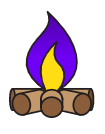
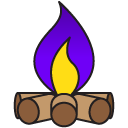
Add burn pool links to producers table

Changed region(s): [[0.0857, 0.0, 0.9143, 1.0]]

diff --git a/modules/koiner/network/block-production/search/attribute/producer-burn-pool-attribute-renderer.vue b/modules/koiner/network/block-production/search/attribute/producer-burn-pool-attribute-renderer.vue
@@ -1,0 +1,97 @@
+<template>
+  <attribute-wrapper
+    v-bind="attributeWrapper"
+    :styles="styles"
+    :applied-options="appliedOptions"
+  >
+    <a
+      v-if="
+        blockProducersMap[rawValue(result.node)] &&
+        !blockProducersMap[rawValue(result.node)].includes('BurnKoin')
+      "
+      :href="`https://fogata.io/pools/${rawValue(result.node)}`"
+      target="_blank"
+      :class="`${styles.attribute.link} address-attribute`"
+    >
+      <img
+        src="/projects/dapp/fogata.png"
+        alt="Fogata Burn Pool"
+        style="max-width: 2.5rem"
+      />
+    </a>
+    <a
+      v-if="
+        blockProducersMap[rawValue(result.node)] &&
+        blockProducersMap[rawValue(result.node)].includes('BurnKoin')
+      "
+      :href="`https://burnkoin.com`"
+      target="_blank"
+      :class="`${styles.attribute.link} address-attribute`"
+    >
+      <img
+        class="dark-logo"
+        src="/projects/dapp/burnkoin-dark.jpg"
+        alt="BurnKoin"
+        style="max-width: 2.5rem"
+      />
+    </a>
+    <a
+      v-if="
+        blockProducersMap[rawValue(result.node)] &&
+        blockProducersMap[rawValue(result.node)].includes('BurnKoin')
+      "
+      :href="`https://burnkoin.com`"
+      target="_blank"
+      :class="`${styles.attribute.link} address-attribute`"
+    >
+      <img
+        class="light-logo"
+        src="/projects/dapp/burnkoin.svg"
+        alt="BurnKoin"
+        style="max-width: 2.5rem"
+      />
+    </a>
+  </attribute-wrapper>
+</template>
+
+<script lang="ts">
+import { defineComponent, PropType } from 'vue';
+import { rendererProps, RendererProps } from '@jsonforms/vue';
+import { localizedTokenAmount, timeAgo } from '@koiner/utils';
+import {
+  AttributeElement,
+  AttributeWrapper,
+  useJsonAttribute,
+  useQuasarAttribute,
+} from '@appvise/jsonsearch-quasar';
+import { blockProducersMap } from '@koiner/network/block-producers-map';
+
+export default defineComponent({
+  name: 'ProducerBurnPoolAttributeRenderer',
+  computed: {
+    blockProducersMap() {
+      return blockProducersMap;
+    },
+  },
+  methods: { localizedTokenAmount, timeAgo },
+  components: {
+    AttributeWrapper,
+  },
+  props: {
+    ...rendererProps<AttributeElement>(),
+
+    result: {
+      type: Object as PropType<any>,
+      required: false,
+      default: null,
+    },
+  },
+  setup(props: RendererProps<AttributeElement>) {
+    const attributeControl = useQuasarAttribute(useJsonAttribute(props));
+
+    return {
+      ...attributeControl,
+    };
+  },
+});
+</script>

diff --git a/modules/koiner/network/block-production/search/attribute/index.ts b/modules/koiner/network/block-production/search/attribute/index.ts
@@ -8,6 +8,7 @@ import {
 import ProducerStatusAttributeRenderer from './producer-status-attribute-renderer.vue';
 import ProducerVhpAttributeRenderer from './producer-vhp-attribute-renderer.vue';
 import ProducerNameAttributeRenderer from './producer-name-attribute-renderer.vue';
+import ProducerBurnPoolAttributeRenderer from './producer-burn-pool-attribute-renderer.vue';
 import {
   isNumericAttributeControl,
   isStringAttributeControl,
@@ -37,10 +38,19 @@ const producerNameAttributeRendererEntry: JsonFormsRendererRegistryEntry = {
   ),
 };
 
+const producerBurnPoolAttributeRendererEntry: JsonFormsRendererRegistryEntry = {
+  renderer: ProducerBurnPoolAttributeRenderer,
+  tester: rankWith(
+    2,
+    and(isStringAttributeControl, optionIs('format', 'producerBurnPool'))
+  ),
+};
+
 export { ProducerStatusAttributeRenderer, ProducerVhpAttributeRenderer };
 
 export const blockProductionAttributeRenderers = [
   producerStatusAttributeRendererEntry,
   producerVhpAttributeRendererEntry,
   producerNameAttributeRendererEntry,
+  producerBurnPoolAttributeRendererEntry,
 ];

diff --git a/src/css/schemes/_dark.scss b/src/css/schemes/_dark.scss
@@ -1,4 +1,8 @@
 .body--dark {
+  .light-logo {
+    display: none !important;
+  }
+
   /* Handle */
   .q-scrollarea__thumb--v,
   ::-webkit-scrollbar-thumb {

diff --git a/src/css/schemes/_light.scss b/src/css/schemes/_light.scss
@@ -1,4 +1,8 @@
 .body--light {
+  .dark-logo {
+    display: none !important;
+  }
+
   /* Handle */
   .q-scrollarea__thumb--v,
   ::-webkit-scrollbar-thumb {
